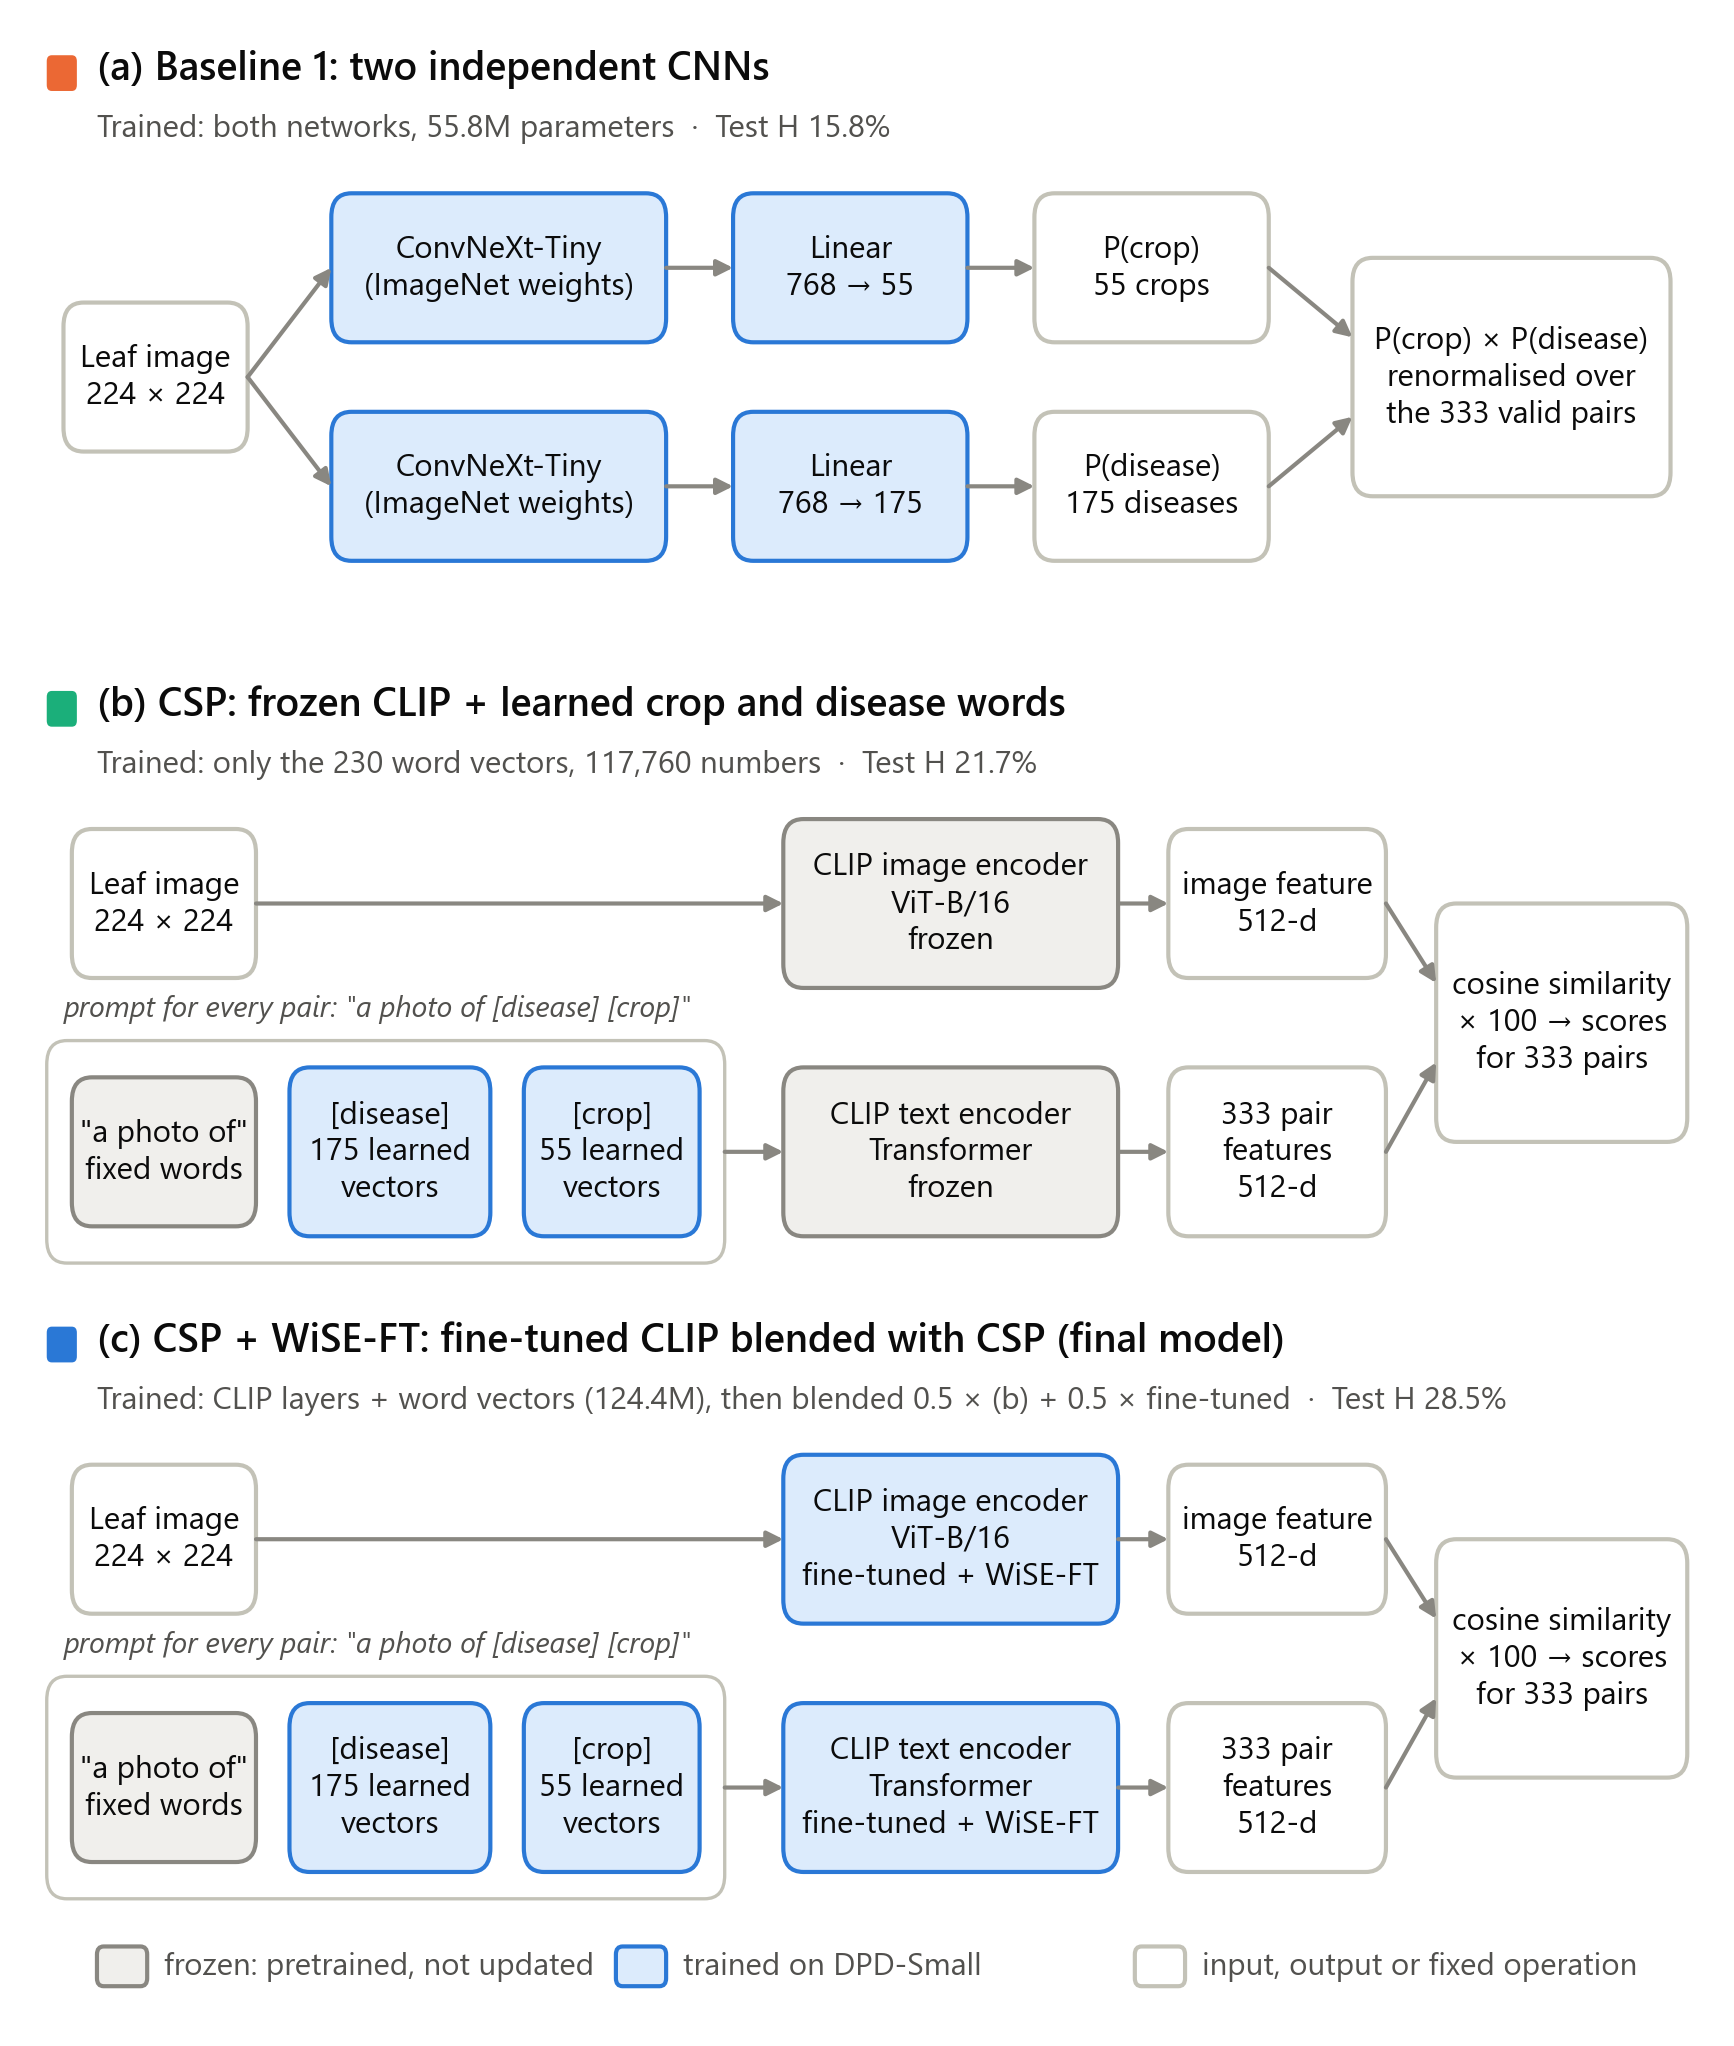
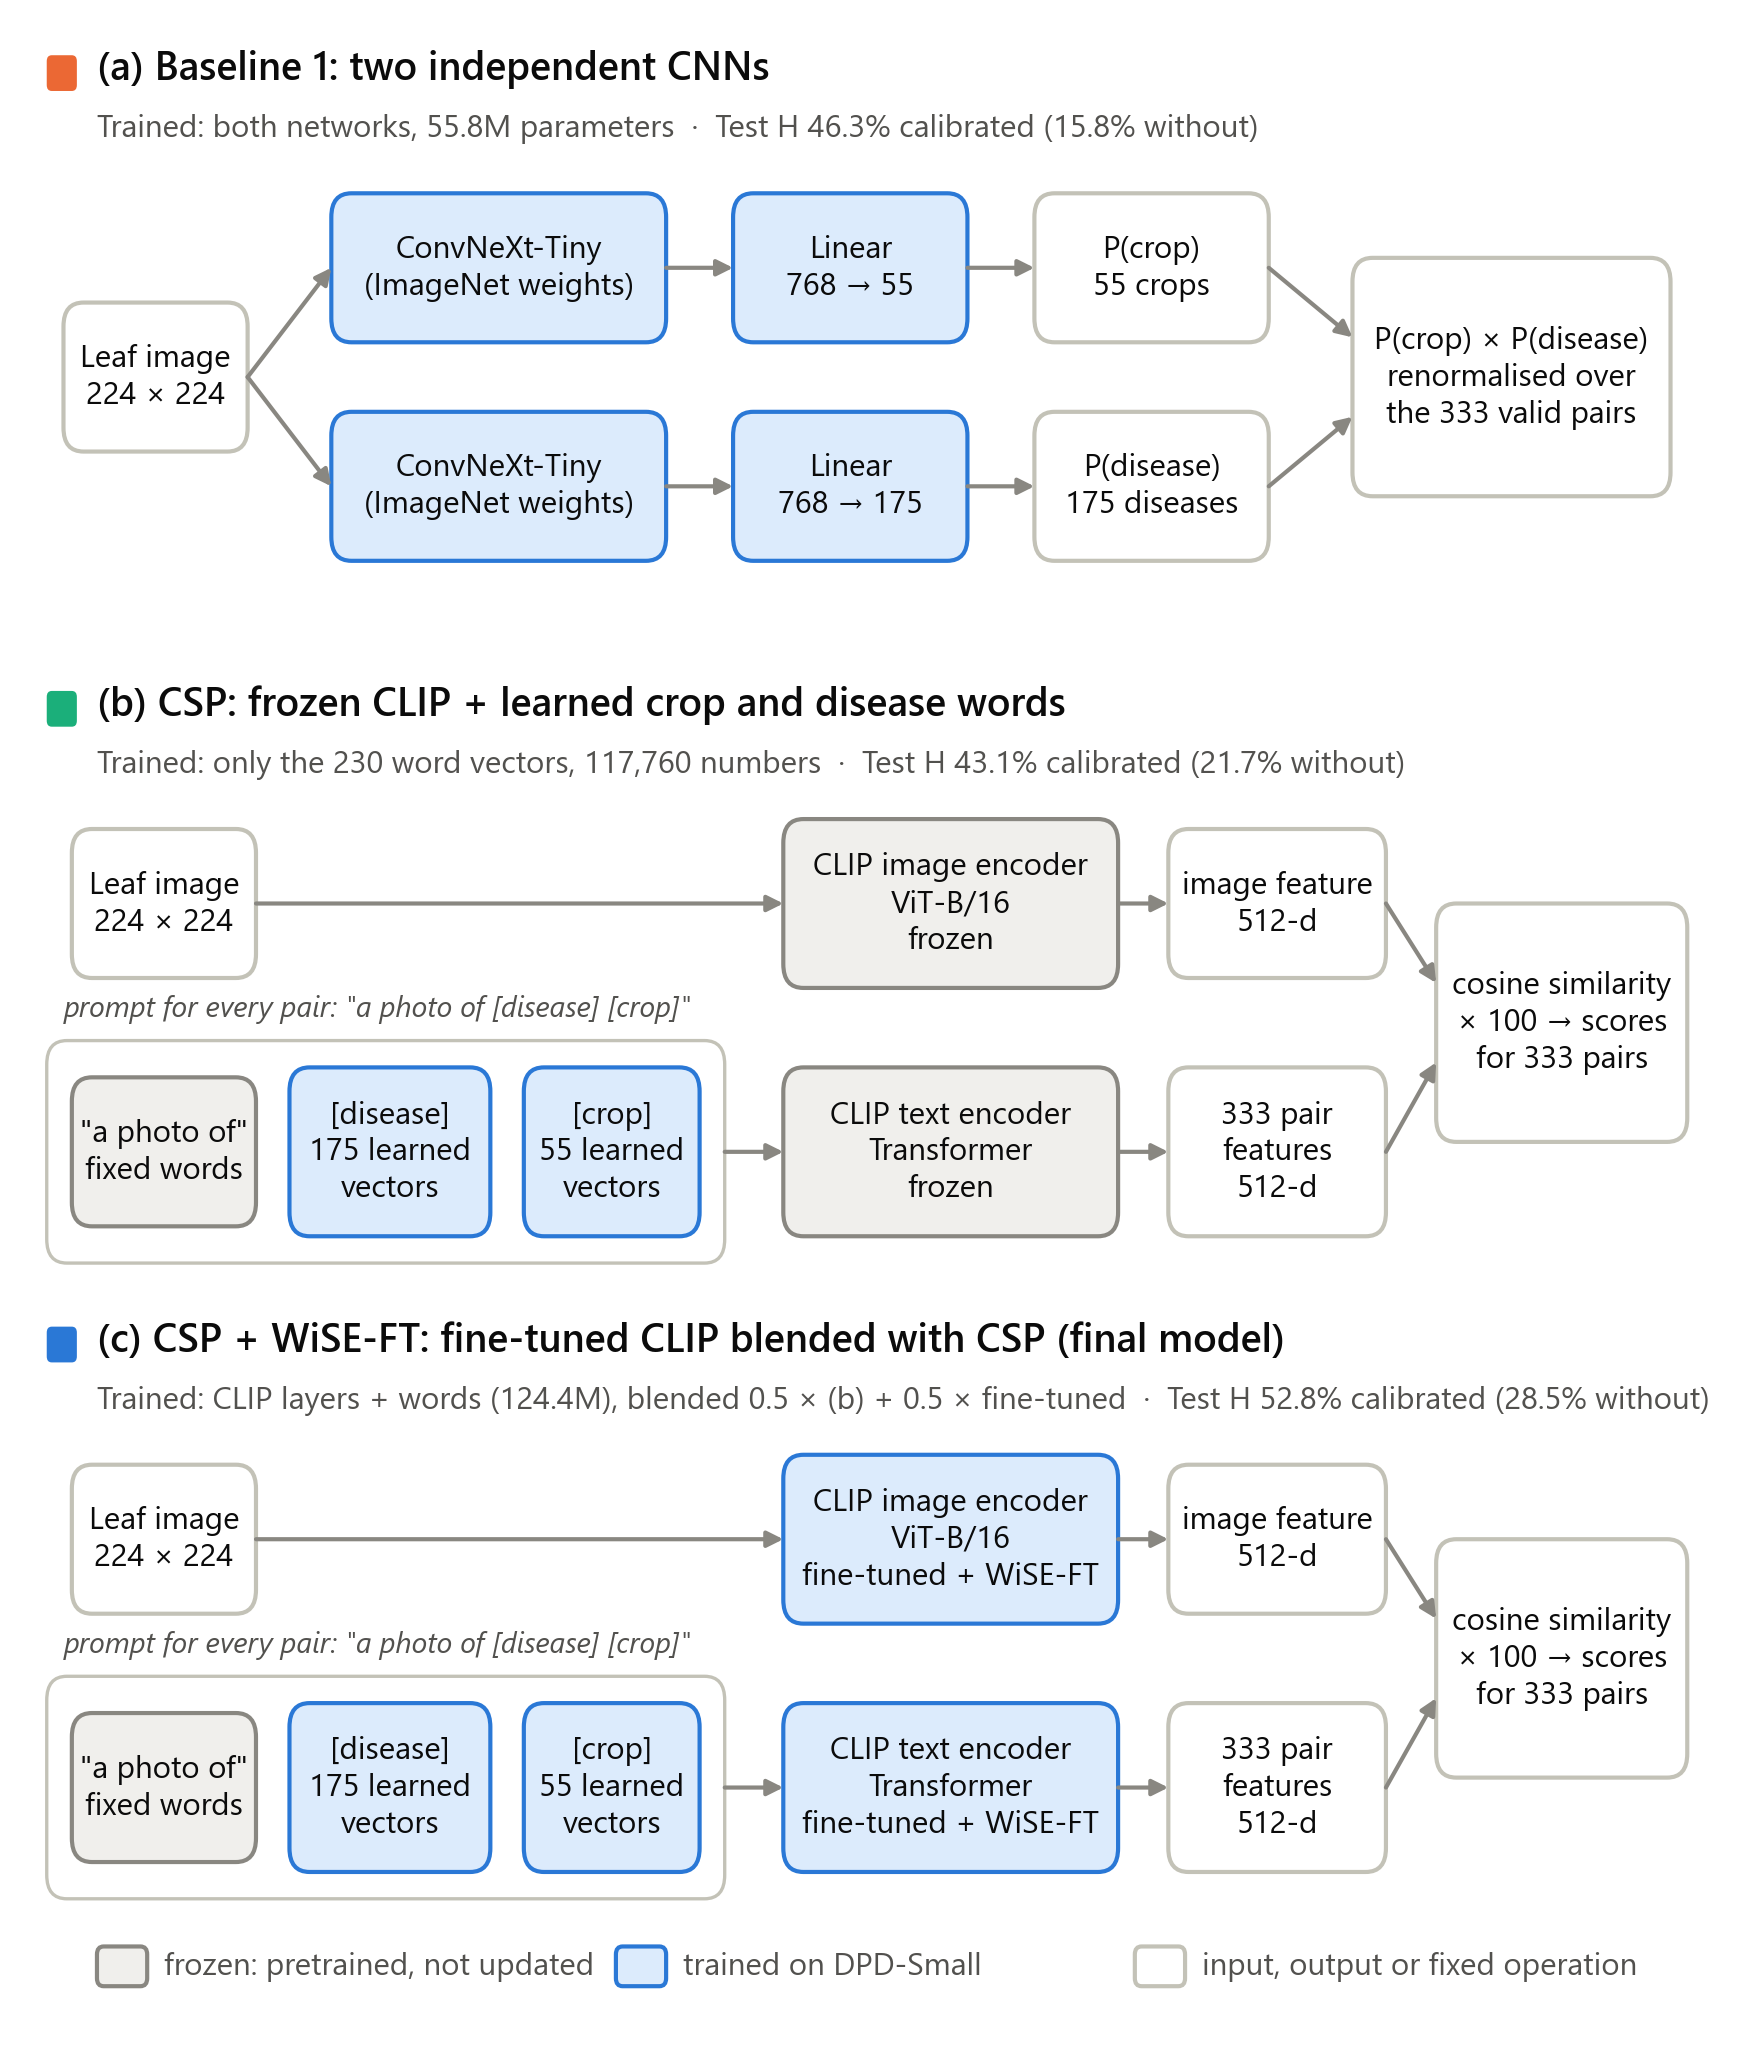
docs: show calibrated results in the model comparison and architecture figures
The model comparison now has two panels: without calibration, and at each
model's own gamma chosen on the pseudo-unseen split (report Figure A4). The
architecture figure's subtitles give test H with and without calibration
(report Figure A2). The other two report figures are unchanged.

diff --git a/src/report_figures.py b/src/report_figures.py
@@ -1,4 +1,5 @@
-r"""Report figures: model comparison, WiSE-FT alpha sweep and accuracy on each unseen pair.
+r"""Report figures: model comparison with and without calibrated stacking, WiSE-FT alpha sweep and accuracy on each
+unseen pair.
 
 Reads the saved test predictions (predictions/, not in git) and the WiSE-FT alpha sweep (outputs/), so run it on
 the machine that produced them:
@@ -16,9 +17,13 @@ import numpy as np  # noqa: E402
 
 sys.path.insert(0, str(Path(__file__).resolve().parents[1]))
 from dataset_access import PROJECT, load_labels, load_split  # noqa: E402
-from evaluate import PRIMARY, Taxonomy, align, evaluate, level_scores, load_predictions  # noqa: E402
+from evaluate import PRIMARY, Taxonomy, align, level_scores, load_predictions  # noqa: E402
+from calibrated_stacking import TEST_SPLITS, composition_log_probabilities, metrics_at  # noqa: E402
 
 MODELS = {'Baseline 1': 'baseline1', 'CSP': 'csp', 'CSP + WiSE-FT': 'csp_wiseft'}  # prediction file prefixes
+# Each model's own gamma, chosen on the pseudo-unseen validation split without test labels
+# (calibrated_stacking_pseudo_unseen.md in its results folder) and applied once to its test predictions.
+GAMMAS = {'Baseline 1': 6.081360077439692, 'CSP': 2.738, 'CSP + WiSE-FT': 5.3459}
 COLOURS = {'Baseline 1': '#eb6834', 'CSP': '#1baf7a', 'CSP + WiSE-FT': '#2a78d6'}
 INK, INK_SECONDARY, MUTED, GRID, AXIS = '#0b0b0b', '#52514e', '#898781', '#e1e0d9', '#c3c2b7'
 SWEEP = PROJECT / 'outputs/wiseft_ViT-B-16-quickgelu_openai_pseudo_seed42/alpha_sweep.csv'
@@ -40,25 +45,35 @@ def title(axis, text):
     axis.set_title(text, loc='left', fontsize=10, color=INK, fontweight='semibold', pad=24)
 
 
-def model_comparison(reports):
-    groups = ['Seen Top-1', 'Unseen Top-1', 'Harmonic mean Top-1']
-    figure, axis = plt.subplots(figsize=(6.5, 3.2))
-    width, x = 0.26, np.arange(len(groups))
-    for i, (model, report) in enumerate(reports.items()):
-        values = 100 * np.array([report['splits']['test_seen']['composition']['top1'][PRIMARY],
-                                 report['splits']['test_unseen']['composition']['top1'][PRIMARY],
-                                 report['harmonic_mean']['top1'][PRIMARY]])
-        bars = axis.bar(x + (i - 1) * width, values, width * 0.9, color=COLOURS[model], label=model)
-        for bar, value in zip(bars, values):  # every value printed: a static figure has no tooltip
-            axis.text(bar.get_x() + bar.get_width() / 2, value + 0.8, f'{value:.1f}', ha='center', va='bottom',
-                      fontsize=7.5, color=INK_SECONDARY)
-    axis.set_xticks(x, groups)
-    axis.tick_params(axis='x', length=0)
-    axis.grid(axis='x', visible=False)
-    axis.set_ylim(0, 62)
-    axis.set_ylabel('Per-class accuracy (%)')
-    title(axis, 'Test accuracy, ranked against all 333 pairs (no calibration)')
-    axis.legend(loc='lower left', bbox_to_anchor=(0, 1.0), ncols=3, borderaxespad=0.3, handlelength=1.2)
+def model_comparison(taxonomy):
+    """Test accuracy of every model without calibration (left) and at its own pseudo-unseen gamma (right)."""
+    seen_mask = np.zeros(taxonomy.size('composition'))
+    seen_mask[taxonomy.seen] = 1
+    points = {}
+    for model, prefix in MODELS.items():
+        data = {split: composition_log_probabilities(PROJECT / f'predictions/{prefix}_{split}.npz', split, taxonomy)
+                for split in TEST_SPLITS}
+        points[model] = [metrics_at(gamma, data, seen_mask) for gamma in (0.0, GAMMAS[model])]
+    figure, axes = plt.subplots(1, 2, figsize=(7.4, 3.4), sharey=True)
+    groups, width, x = ['Seen', 'Unseen', 'Harmonic\nmean'], 0.26, np.arange(3)
+    panels = ('Without calibration (γ = 0)', 'With calibrated stacking (γ chosen on pseudo-unseen)')
+    for calibrated, (axis, text) in enumerate(zip(axes, panels)):
+        for i, (model, results) in enumerate(points.items()):
+            point = results[calibrated]
+            values = 100 * np.array([point['test_seen']['top1'][PRIMARY], point['test_unseen']['top1'][PRIMARY],
+                                     point['harmonic_mean']['top1'][PRIMARY]])
+            bars = axis.bar(x + (i - 1) * width, values, width * 0.9, color=COLOURS[model], label=model)
+            for bar, value in zip(bars, values):  # every value printed: a static figure has no tooltip
+                axis.text(bar.get_x() + bar.get_width() / 2, value + 0.8, f'{value:.1f}', ha='center',
+                          va='bottom', fontsize=6.5, color=INK_SECONDARY)
+        axis.set_xticks(x, groups)
+        axis.tick_params(axis='x', length=0)
+        axis.grid(axis='x', visible=False)
+        axis.set_title(text, loc='left', fontsize=9, color=INK, fontweight='semibold')
+    axes[0].set_ylim(0, 75)
+    axes[0].set_ylabel('Per-class Top-1 on the test sets (%)')
+    axes[0].legend(loc='lower left', bbox_to_anchor=(0, 1.08), ncols=3, borderaxespad=0.3, handlelength=1.2)
+    figure.tight_layout()
     return figure
 
 
@@ -123,11 +138,7 @@ def main():
     style()
     OUT.mkdir(parents=True, exist_ok=True)
     taxonomy = Taxonomy(load_labels())
-    records = {split: load_split(split) for split in ('test_seen', 'test_unseen')}
-    reports = {model: evaluate(model, {split: load_predictions(PROJECT / f'predictions/{prefix}_{split}.npz')
-                                       for split in records}, records, taxonomy)[0]
-               for model, prefix in MODELS.items()}
-    for name, figure in (('model_comparison', model_comparison(reports)), ('wiseft_alpha_sweep', alpha_sweep(SWEEP)),
+    for name, figure in (('model_comparison', model_comparison(taxonomy)), ('wiseft_alpha_sweep', alpha_sweep(SWEEP)),
                          ('unseen_pair_accuracy', unseen_pairs(taxonomy))):
         figure.savefig(OUT / f'{name}.png')
         plt.close(figure)

diff --git a/src/architecture_figure.py b/src/architecture_figure.py
@@ -46,7 +46,7 @@ def heading(axis, top, model, title, summary):
 
 def baseline1(axis, top):
     heading(axis, top, 'Baseline 1', '(a) Baseline 1: two independent CNNs',
-            'Trained: both networks, 55.8M parameters  ·  Test H 15.8%')
+            'Trained: both networks, 55.8M parameters  ·  Test H 46.3% calibrated (15.8% without)')
     upper, lower, middle = top - 10, top - 21, top - 15.5
     image = box(axis, 2, middle, 11, 'Leaf image\n224 × 224', 'data')
     for y, classes, name in ((upper, 55, 'crop'), (lower, 175, 'disease')):
@@ -105,9 +105,11 @@ def main():
     axis.axis('off')
     baseline1(axis, 98)
     clip_model(axis, 66, 'CSP', '(b) CSP: frozen CLIP + learned crop and disease words',
-               'Trained: only the 230 word vectors, 117,760 numbers  ·  Test H 21.7%', 'frozen', 'frozen')
+               'Trained: only the 230 word vectors, 117,760 numbers  ·  Test H 43.1% calibrated (21.7% without)',
+               'frozen', 'frozen')
     clip_model(axis, 34, 'CSP + WiSE-FT', '(c) CSP + WiSE-FT: fine-tuned CLIP blended with CSP (final model)',
-               'Trained: CLIP layers + word vectors (124.4M), then blended 0.5 × (b) + 0.5 × fine-tuned  ·  Test H 28.5%',
+               'Trained: CLIP layers + words (124.4M), blended 0.5 × (b) + 0.5 × fine-tuned  ·  '
+               'Test H 52.8% calibrated (28.5% without)',
                'trained', 'fine-tuned + WiSE-FT')
     legend(axis, 2.5)
     OUT.mkdir(parents=True, exist_ok=True)
